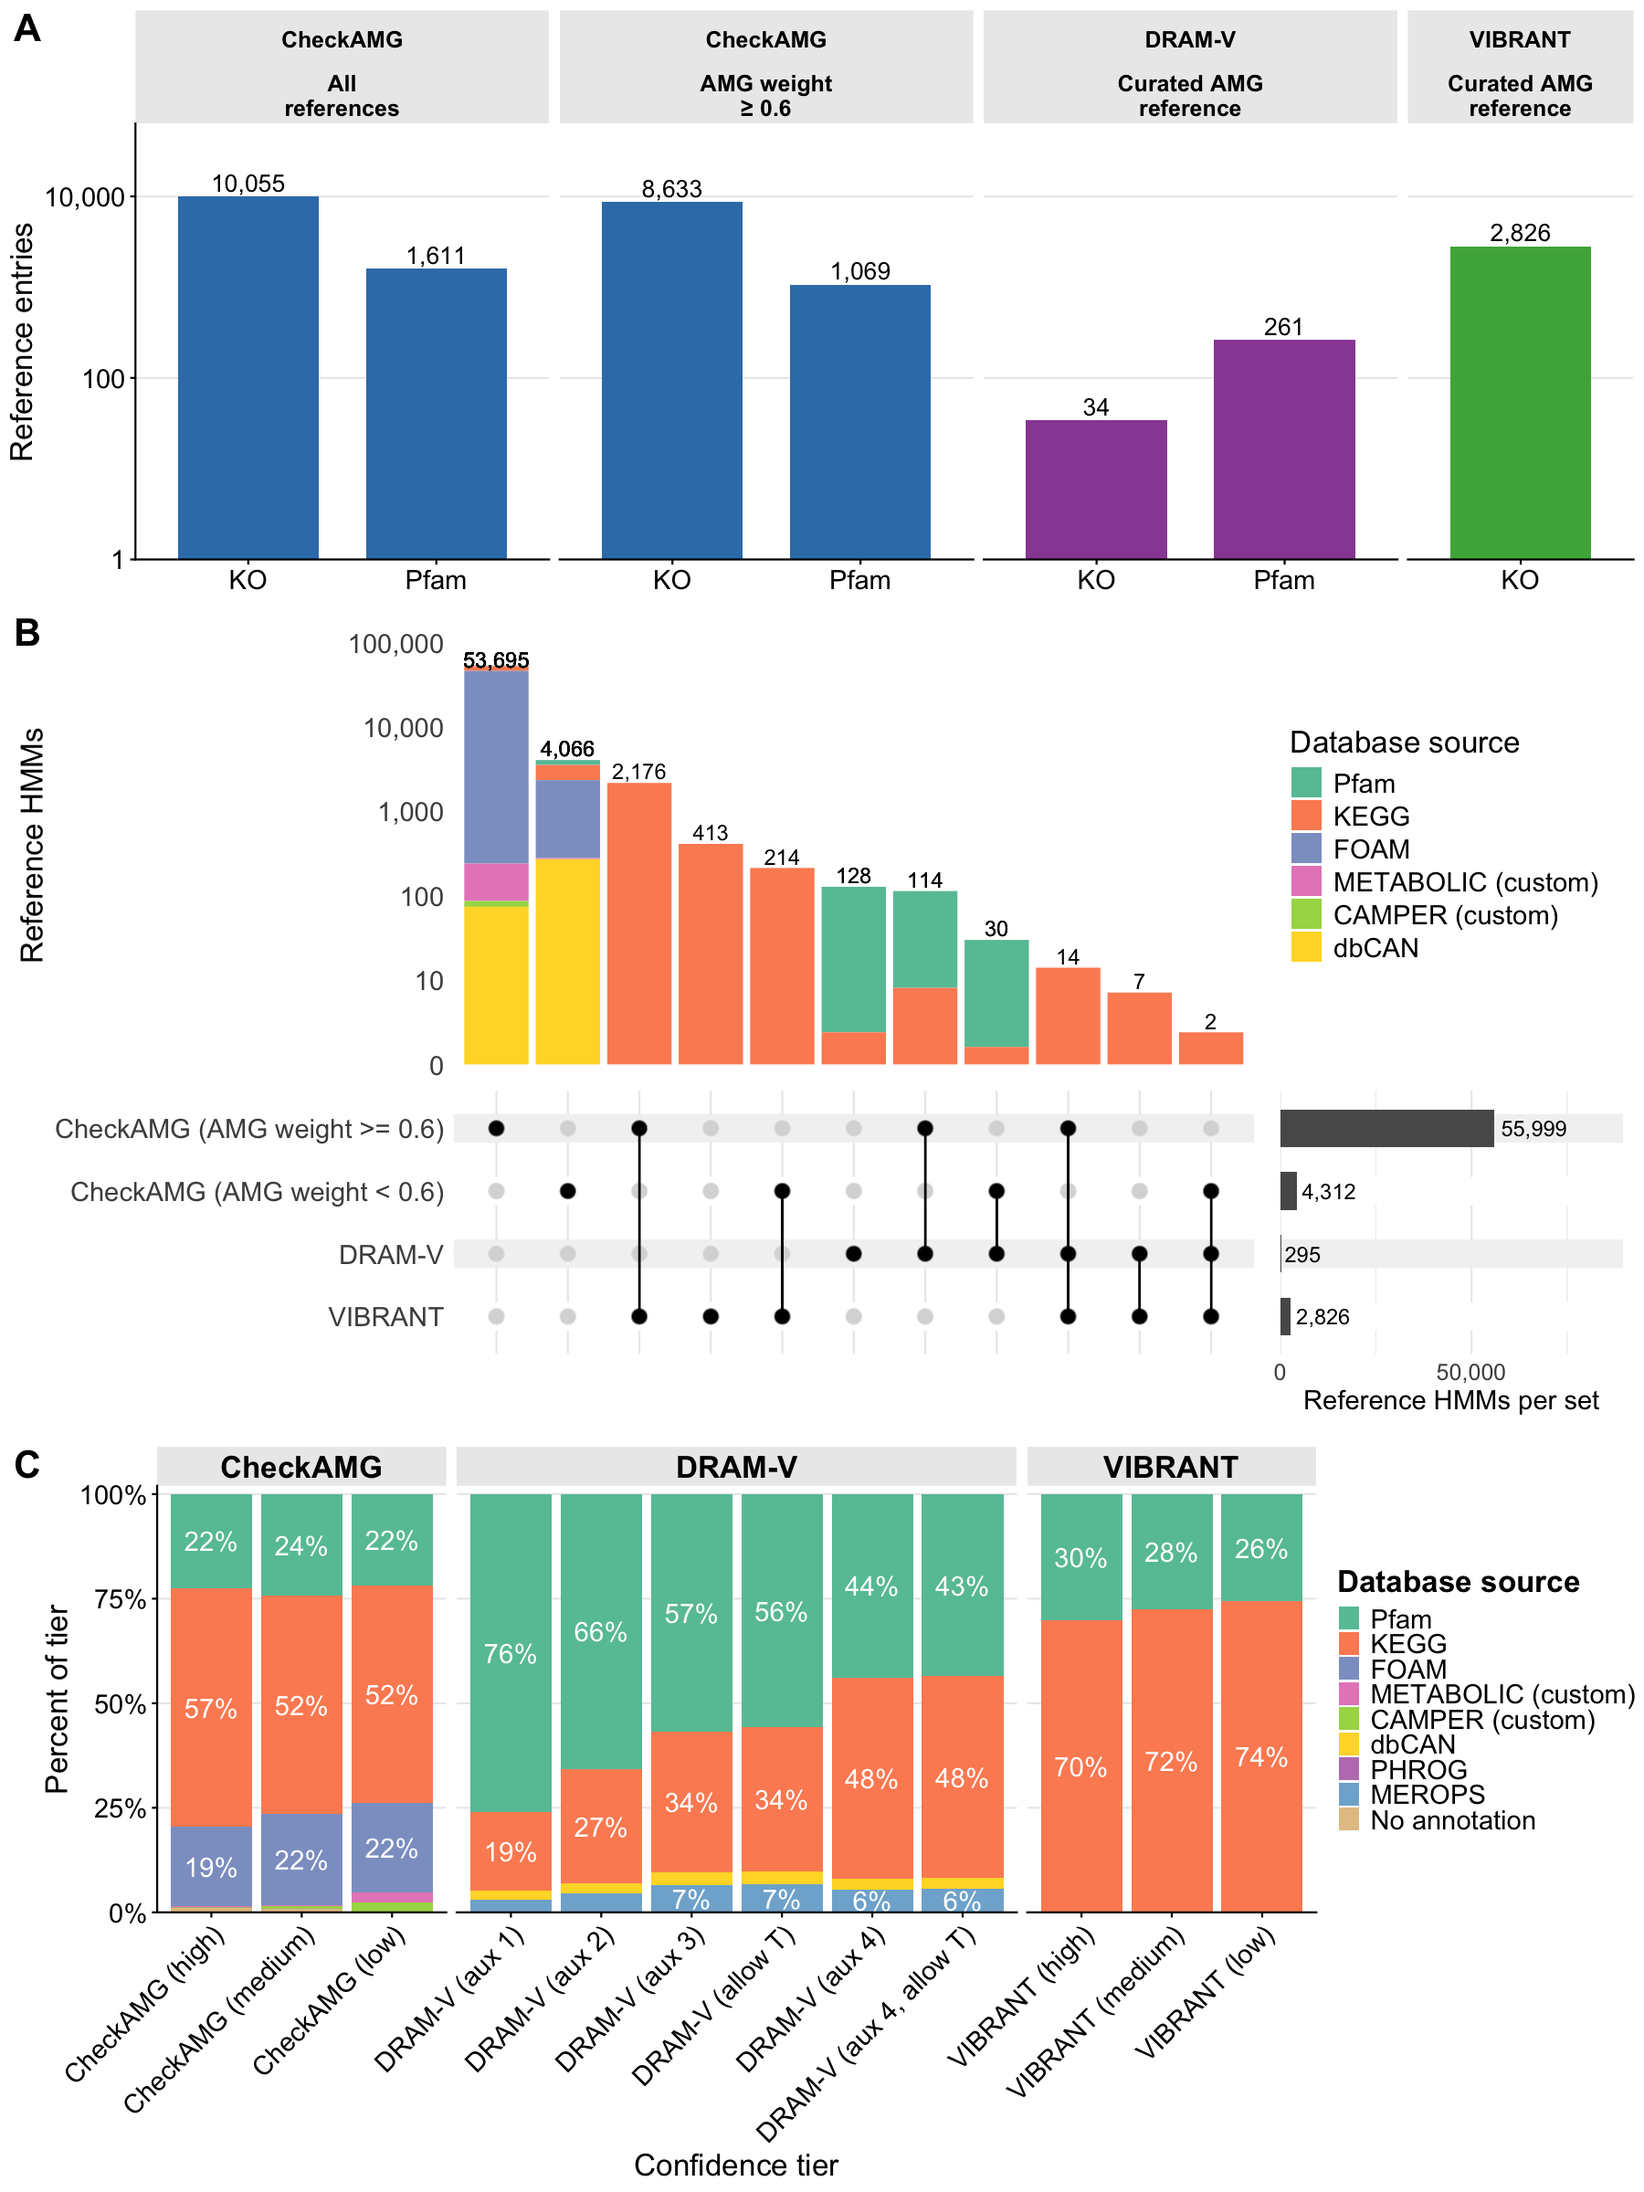
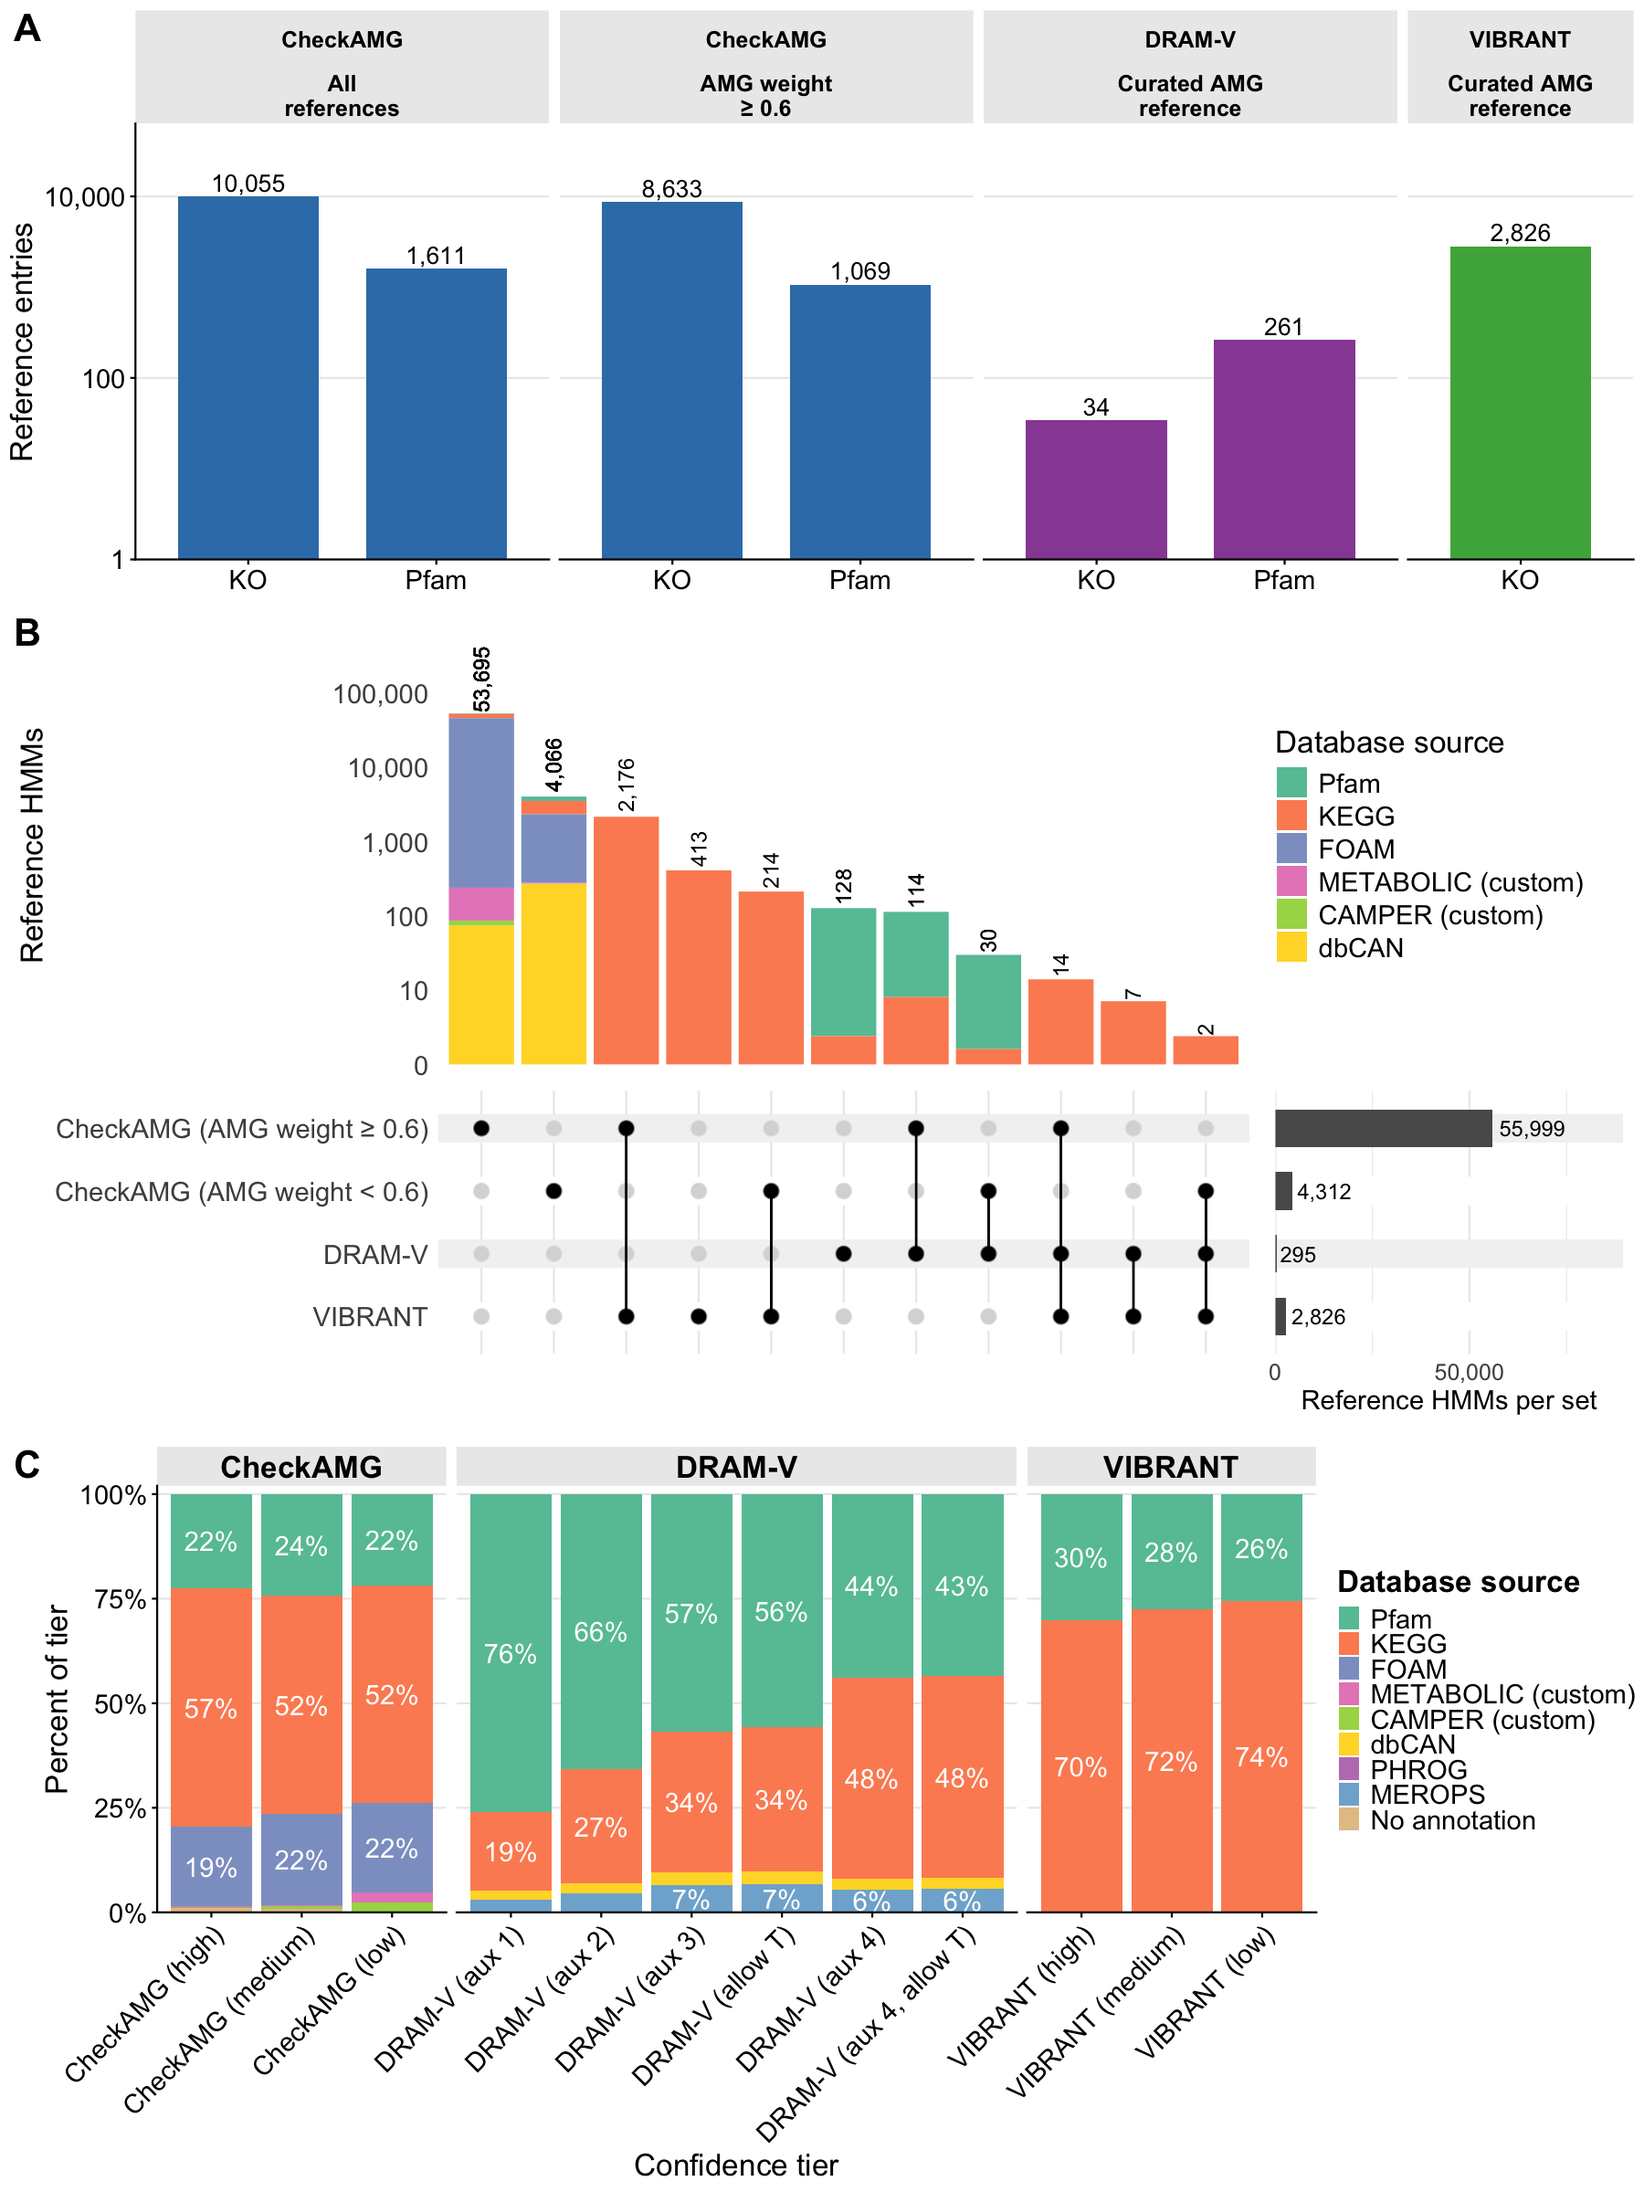
Resize the UpSet points and legends for legibility at the new column counts and correct the Extended Data Figure 7 Source Data description

diff --git a/notebooks/amg_benchmark_figures.md b/notebooks/amg_benchmark_figures.md
@@ -440,7 +440,8 @@ upset_queries <- list(
 
 # Plain geom_bar intersection bars, because intersection_size bars are dropped on a log10 axis
 log_upset <- function(data, sets, track, label_angle, label_size, height_ratio, width_ratio, min_size = 0,
-                      queries = upset_queries, count_breaks = waiver()) {
+                      queries = upset_queries, count_breaks = waiver(), point_size = 2.5,
+                      set_size_lab = "Calls per tier among\nthe genes shown") {
   ComplexUpset::upset(
     data = data,
     intersect = rev(sets),
@@ -458,11 +459,11 @@ log_upset <- function(data, sets, track, label_angle, label_size, height_ratio, 
         scale_y_log10(labels = scales::comma, breaks = count_breaks,
                       expand = expansion(mult = c(0, if (label_angle == 0) 0.15 else 0.35))) +
         labs(y = "AMG calls\n(proteins, log10)") +
-        theme(panel.grid = element_blank(), axis.title.y = element_text(size = 12), axis.text.y = element_text(size = 11))
+        theme(panel.grid = element_blank(), axis.title.y = element_text(size = 14), axis.text.y = element_text(size = 12))
     ),
     annotations = track,
     matrix = ComplexUpset::intersection_matrix(
-      geom = geom_point(size = 2.5),
+      geom = geom_point(size = point_size),
       segment = geom_segment(linetype = "solid", color = "black"),
       outline_color = list(active = "grey60", inactive = "grey90")
     ),
@@ -471,11 +472,11 @@ log_upset <- function(data, sets, track, label_angle, label_size, height_ratio, 
     ),
     queries = queries,
     set_sizes = ComplexUpset::upset_set_size(geom = geom_bar(aes(x = group), width = 0.8), position = "right") +
-      geom_text(aes(label = scales::comma(after_stat(count))), hjust = -0.1, stat = "count", size = 3.2) +
+      geom_text(aes(label = scales::comma(after_stat(count))), hjust = -0.1, stat = "count", size = 3.5) +
       scale_y_continuous(labels = scales::comma, expand = expansion(mult = c(0, 0.7)),
                          breaks = function(lim) Filter(function(b) b <= 0.8 * lim[2], scales::breaks_extended(3)(lim))) +
-      labs(y = "Calls per tier among\nthe genes shown") +
-      theme(axis.text.x = element_text(size = 10), axis.title.x = element_text(size = 11))
+      labs(y = set_size_lab) +
+      theme(axis.text.x = element_text(size = 12), axis.title.x = element_text(size = 12))
   )
 }
 ```
@@ -588,7 +589,7 @@ fig3_min_size <- 12
 
 # Stacked fill segments stay proportional only on a linear axis, so both bar axes are linear
 fill_upset <- function(data, sets, label_angle, label_size, height_ratio, width_ratio, mat_text, show_legend, set_sizes,
-                       bar_lab, title = NULL, min_size = fig3_min_size) {
+                       bar_lab, title = NULL, min_size = fig3_min_size, point_size = 3.5, ytitle_inset = 0) {
   bars <- ComplexUpset::intersection_size(
     mapping = aes(fill = fill_primary),
     bar_number_threshold = 1,
@@ -606,6 +607,8 @@ fill_upset <- function(data, sets, label_angle, label_size, height_ratio, width_
           legend.title = element_text(size = 14), legend.text = element_text(size = 12),
           plot.title = element_text(size = 14, face = "bold", hjust = 0.5, lineheight = 0.9))
   if (!is.null(title)) bars <- bars + ggtitle(title)
+  # A negative right margin draws the y title over the empty space above the set labels
+  if (ytitle_inset > 0) bars <- bars + theme(axis.title.y = element_text(size = 14, margin = margin(r = -ytitle_inset)))
   ComplexUpset::upset(
     data = data,
     intersect = rev(sets),
@@ -617,7 +620,7 @@ fill_upset <- function(data, sets, label_angle, label_size, height_ratio, width_
     height_ratio = height_ratio, width_ratio = width_ratio, guides = if (show_legend) "over" else NULL,
     base_annotations = list("AMG calls (proteins)" = bars),
     matrix = ComplexUpset::intersection_matrix(
-      geom = geom_point(size = 3.5),
+      geom = geom_point(size = point_size),
       segment = geom_segment(linetype = "solid", color = "black"),
       outline_color = list(active = "grey60", inactive = "grey90")
     ),
@@ -744,10 +747,10 @@ p_fig3_focal <- lapply(names(fig3_focal), function(tool) {
   tighten_upset(fill_upset(fig3_focal_data[[tool]], unname(fig3_tier_map[fig3_focal[[tool]]$sets]), label_angle = 90, label_size = 3.5,
                            height_ratio = 0.9, width_ratio = 0.3, mat_text = 12, show_legend = FALSE, set_sizes = FALSE,
                            bar_lab = "AMG calls\n(number of proteins)", title = fig3_focal[[tool]]$title,
-                           min_size = fig3_focal[[tool]]$min_size), 2, 4)
+                           min_size = fig3_focal[[tool]]$min_size, point_size = 1.5, ytitle_inset = 30), 2, 4)
 })
 # A constant ratio overplots DRAM-V counts, so width is a label column plus one unit per bar
-fig3_focal_widths <- vapply(fig3_focal_intersections, function(x) sum(x$shown), integer(1)) + 26
+fig3_focal_widths <- vapply(fig3_focal_intersections, function(x) sum(x$shown), integer(1)) + 16
 p_fig3_upset_per_tool <- cowplot::plot_grid(plotlist = p_fig3_focal, nrow = 1, rel_widths = fig3_focal_widths)
 print(p_fig3_upset_per_tool)
 ```
@@ -771,8 +774,8 @@ source_track <- list(
     scale_fill_manual(values = source_pal, name = "Sequence source", drop = FALSE) +
     scale_y_continuous(breaks = c(0, 0.5, 1), labels = label_percent(scale = 100), expand = expansion(mult = c(0, 0))) +
     labs(y = "Share by sequence source") +
-    theme(panel.grid = element_blank(), axis.title.y = element_text(size = 12), axis.text.y = element_text(size = 10),
-          legend.title = element_text(size = 12), legend.text = element_text(size = 11))
+    theme(panel.grid = element_blank(), axis.title.y = element_text(size = 14), axis.text.y = element_text(size = 12),
+          legend.title = element_text(size = 14), legend.text = element_text(size = 12))
 )
 
 ed7_tier_map <- c(
@@ -797,7 +800,8 @@ cat("intersections:", nrow(ed7_intersections), "shown:", sum(ed7_intersections$s
 ``` r
 # Count ticks stop at the largest bar, so the top count tick cannot meet the 0% tick of the share track
 p_upset_all_tiers <- tighten_upset(log_upset(ed7_upset_data, unname(ed7_tier_map), source_track,
-                                             label_angle = 90, label_size = 2.8, height_ratio = 0.8, width_ratio = 0.22,
+                                             label_angle = 90, label_size = 3, height_ratio = 0.8, width_ratio = 0.22, point_size = 1.5,
+                                             set_size_lab = "Calls per tier",
                                              queries = lapply(unname(ed7_tier_map), function(s) {
                                                upset_query(set = s, color = tool_pal[fig3_tool_of(s)], fill = tool_pal[fig3_tool_of(s)],
                                                            only_components = c("intersections_matrix"))
@@ -1049,7 +1053,7 @@ p_weight_composition <- ggplot(
   ) +
   guides(
     fill = guide_legend(
-      ncol = 1,
+      nrow = 6,
       title.position = "top"
     )
   )
@@ -1187,7 +1191,7 @@ p_db_composition <- ggplot(
   ) +
   guides(
     fill = guide_legend(
-      ncol = 1,
+      nrow = 6,
       title.position = "top"
     )
   )
@@ -1364,7 +1368,7 @@ p_category_composition <- ggplot(
   ) +
   guides(
     fill = guide_legend(
-      ncol = 1,
+      nrow = 6,
       title.position = "top"
     )
   )
@@ -1642,6 +1646,7 @@ METABOLIC or CAMPER carry those colors.
 
 ``` r
 reference_upset_data <- reference_hmms %>%
+  dplyr::rename(`CheckAMG (AMG weight ≥ 0.6)` = `CheckAMG (AMG weight >= 0.6)`) %>%
   mutate(
     n_databases = Pfam + KEGG + FOAM + METABOLIC + CAMPER + dbCAN,
     `Database source` = case_when(
@@ -1655,7 +1660,7 @@ reference_upset_data <- reference_hmms %>%
       CAMPER ~ "CAMPER (custom)"
     ),
     `Database source` = factor(`Database source`, levels = db_source_levels),
-    `CheckAMG (AMG weight < 0.6)` = `CheckAMG (all)` & !`CheckAMG (AMG weight >= 0.6)`,
+    `CheckAMG (AMG weight < 0.6)` = `CheckAMG (all)` & !`CheckAMG (AMG weight ≥ 0.6)`,
     `DRAM-V` = DRAMV
   )
 
@@ -1663,7 +1668,7 @@ stopifnot(all(reference_upset_data$Pfam + reference_upset_data$KEGG + reference_
           !anyDuplicated(reference_upset_data$HMM))
 
 reference_sets <- c(
-  "CheckAMG (AMG weight >= 0.6)",
+  "CheckAMG (AMG weight ≥ 0.6)",
   "CheckAMG (AMG weight < 0.6)",
   "DRAM-V",
   "VIBRANT"
@@ -1684,14 +1689,14 @@ p_reference_upset <- ComplexUpset::upset(
     "Reference HMMs" = ComplexUpset::intersection_size(
       mapping = aes(fill = `Database source`),
       text_mapping = aes(label = scales::comma(!!ComplexUpset::get_size_mode("exclusive_intersection"))),
-      text = list(size = 4),
+      text = list(size = 4, angle = 90, vjust = 0.5, hjust = -0.1),
       text_colors = c(on_background = "black", on_bar = "black")
     ) +
       coord_trans(y = scales::pseudo_log_trans(base = 10)) +
       scale_y_continuous(
         breaks = c(0, 10, 100, 1000, 10000, 100000),
         labels = scales::comma,
-        expand = expansion(mult = c(0, 0.1))
+        expand = expansion(mult = c(0, 0.25))
       ) +
       scale_fill_manual(
         values = db_source_pal,
@@ -1703,7 +1708,8 @@ p_reference_upset <- ComplexUpset::upset(
         axis.title.y = element_text(size = 16),
         axis.text.y = element_text(size = 14),
         legend.title = element_text(size = 16),
-        legend.text = element_text(size = 14)
+        legend.text = element_text(size = 14),
+        legend.margin = margin(0, 18, 0, 0)
       )
   ),
 
@@ -1740,7 +1746,7 @@ p_reference_upset <- ComplexUpset::upset(
       axis.text.x = element_text(size = 12),
       axis.title.x = element_text(size = 14)
     )
-)
+) & theme(legend.margin = margin(0, 18, 0, 0))
 
 print(p_reference_upset)
 ```
@@ -2286,9 +2292,10 @@ curation steps counted above.
 fig3_height <- 14.5
 p_fig3_bottom <- cowplot::plot_grid(
   p_weight_composition,
-  p_category_composition,
-  p_db_composition + guides(fill = guide_legend(ncol = 2, title.position = "top")),
-  ncol = 3, rel_widths = c(1, 1, 1), align = "h", axis = "t",
+  # The two-column cautious legend is wider than its panel, so it starts under the narrow weight legend
+  p_category_composition + theme(legend.box.margin = margin(l = -45)),
+  p_db_composition,
+  ncol = 3, rel_widths = c(1, 1, 1), align = "h", axis = "tb",
   labels = c("C", "D", "E"), label_size = 18
 )
 p_upset_comp_composite <- cowplot::plot_grid(
@@ -2376,7 +2383,7 @@ are not drawn here.
 
 ``` r
 ed_upset_height <- 8.5
-save_plot_both(p_upset_all_tiers, "amg_all_tier_upset_by_sequence_source", 12, ed_upset_height, 300)
+save_plot_both(p_upset_all_tiers, "amg_all_tier_upset_by_sequence_source", 15, ed_upset_height, 300)
 print(p_upset_all_tiers)
 ```
 
@@ -2639,7 +2646,7 @@ tibble::tibble(file = list.files(SRC_DIR, pattern = "[.]csv$")) %>%
   mutate(rows = vapply(file, function(f) nrow(readr::read_csv(file.path(SRC_DIR, f), show_col_types = FALSE)), integer(1)))
 ```
 
-    ## # A tibble: 26 × 2
+    ## # A tibble: 24 × 2
     ##    file                                        rows
     ##    <chr>                                      <int>
     ##  1 caution_shares_by_basis.csv                   20
@@ -2652,4 +2659,4 @@ tibble::tibble(file = list.files(SRC_DIR, pattern = "[.]csv$")) %>%
     ##  8 edfig6A_no_viral_evidence_counts.csv           5
     ##  9 edfig6A_nonoverlap_reasons.csv                57
     ## 10 edfig6B_scenario_sizes.csv                     8
-    ## # ℹ 16 more rows
+    ## # ℹ 14 more rows
